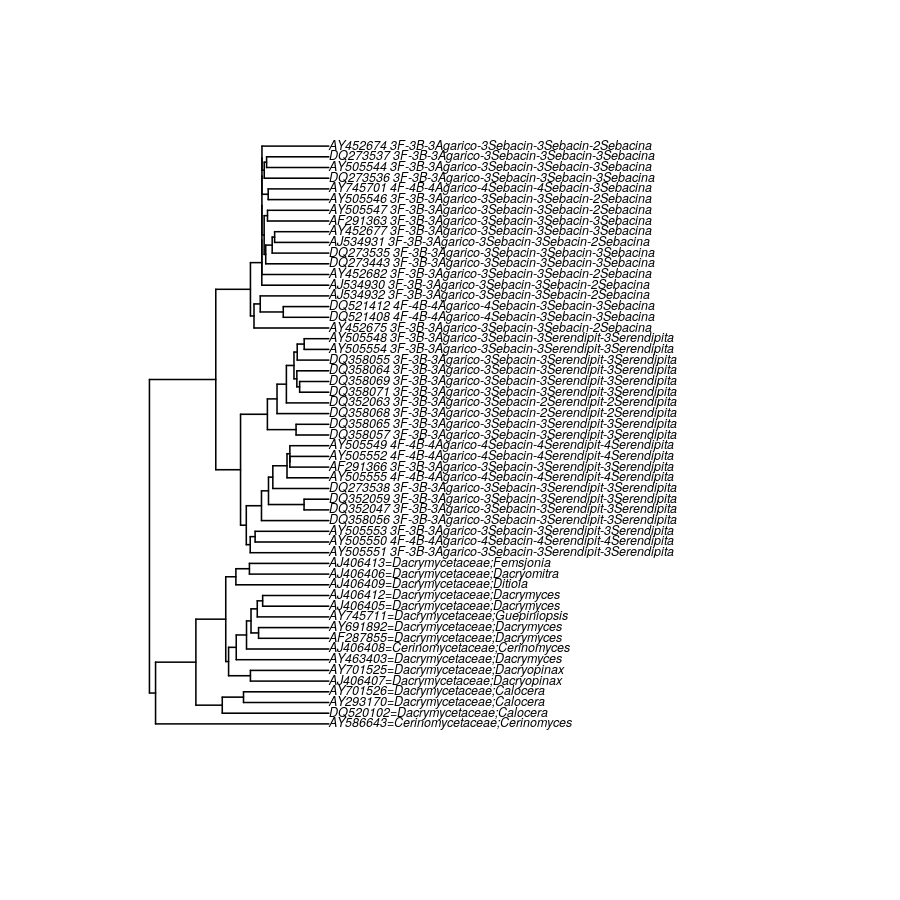
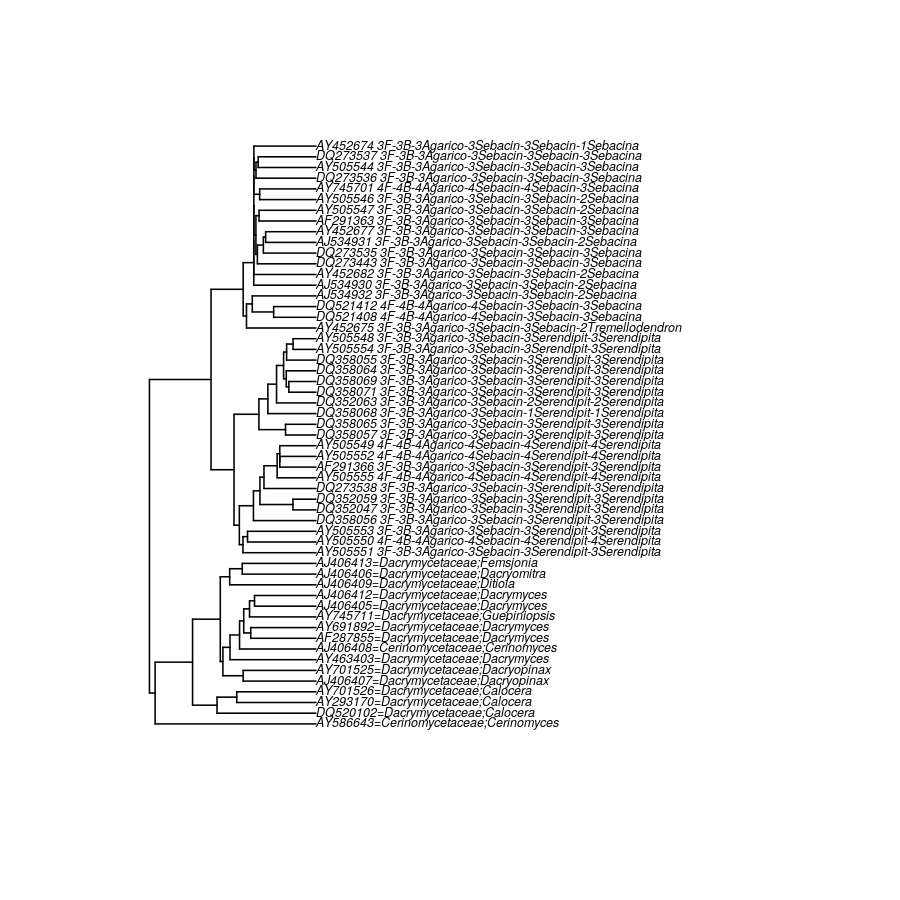
switch to github actions for testing

Changed region(s): [[0.1556, 0.1556, 0.7467, 0.8089]]

diff --git a/README.md b/README.md
@@ -6,8 +6,8 @@ phylotax
 
 <!-- badges: start -->
 
-[![Travis build
-status](https://travis-ci.com/brendanf/phylotax.svg?branch=master)](https://travis-ci.com/brendanf/phylotax)
+[![R build
+status](https://github.com/brendanf/phylotax/workflows/R-CMD-check-bioc/badge.svg)](https://github.com/brendanf/phylotax/actions)
 [![Codecov test
 coverage](https://codecov.io/gh/brendanf/phylotax/branch/master/graph/badge.svg)](https://codecov.io/gh/brendanf/phylotax?branch=master)
 <!-- badges: end -->
@@ -103,8 +103,8 @@ tree supports it.
 
 ``` r
 phylotax_out <- phylotax(tree = example_tree(), taxa = example_taxa())
-#> INFO [2020-10-20 16:04:59] Assigned node 9 (label: 3) and its 2 descendant(s) to genus Tax2.
-#> INFO [2020-10-20 16:04:59] Assigned node 10 (label: 4) and its 3 descendant(s) to genus Tax1.
+#> INFO [2021-03-03 07:03:38] Assigned node 9 (label: 3) and its 2 descendant(s) to genus Tax2.
+#> INFO [2021-03-03 07:03:38] Assigned node 10 (label: 4) and its 3 descendant(s) to genus Tax1.
 ```
 
 PHYLOTAX returns a list of class “`phylotax`” containing the tree, taxa
@@ -258,7 +258,7 @@ aln <- AlignSeqs(c(unknowns, outgroup))
 #> Aligning Sequences:
 #> ================================================================================
 #> 
-#> Time difference of 0.59 secs
+#> Time difference of 0.58 secs
 #> 
 #> Iteration 1 of 2:
 #> 
@@ -275,7 +275,7 @@ aln <- AlignSeqs(c(unknowns, outgroup))
 #> Realigning Sequences:
 #> ================================================================================
 #> 
-#> Time difference of 0.42 secs
+#> Time difference of 0.41 secs
 #> 
 #> Iteration 2 of 2:
 #> 
@@ -297,7 +297,7 @@ aln <- AlignSeqs(c(unknowns, outgroup))
 #> Refining the alignment:
 #> ================================================================================
 #> 
-#> Time difference of 0.1 secs
+#> Time difference of 0.09 secs
 ```
 
 Trim the ends where there are a lot of gaps.
@@ -348,7 +348,7 @@ dendro <- IdClusters(distmat, method = "ML", type = "dendrogram", myXStringSet =
 #> Transversion rates = 1
 #> Alpha = 0.535
 #> 
-#> Time difference of 6.55 secs
+#> Time difference of 6.87 secs
 ```
 
 PHYLOTAX needs the tree to be a `phylo` object from the `ape` package.
@@ -431,7 +431,7 @@ format as SINTAX.
 idtaxa_model <- train_idtaxa(sintax_ref)
 #> ================================================================================
 #> 
-#> Time difference of 0.59 secs
+#> Time difference of 0.6 secs
 ```
 
 Now that the model is trained, we can identify the unknown sequences.
@@ -440,7 +440,7 @@ Now that the model is trained, we can identify the unknown sequences.
 idtaxa_result <- taxonomy(unknowns, reference = idtaxa_model, method = "idtaxa")
 #> ================================================================================
 #> 
-#> Time difference of 0.11 secs
+#> Time difference of 0.12 secs
 ```
 
 IDTAXA gives its result as a list of lists. Here are the first three
@@ -482,7 +482,7 @@ str(sintax_result)
 #> tibble [39 × 5] (S3: tbl_df/tbl/data.frame)
 #>  $ label : chr [1:39] "AF291363" "AJ534930" "AJ534931" "AJ534932" ...
 #>  $ seq   : chr [1:39] "GCGGAGGAAAAGAAACTAACAAGGATTCCCCTAGTAACGGCGAGTGAAGAGGGAATAGCTCAAATTTTGAATCTGGCACCTTTGGTGTCCGAATTGTAATCTAGAGAAGTG"| __truncated__ "AACGGCGAGTGAAGAGGGAAGAGCTCAAATTTTGAATCTGGCGTCTTTGGCGTCCGAATTGTAATCTAGAGAAGTGTTTTCCGTGACGGACCGTGCATAAGTCTCCTGGAA"| __truncated__ "CCCGCTGAACTTAAGCATATCAATAAGCGGAGGAAAAGAAACTAACAAGGATTCCCCTAGTAACGGCGAGTGAAGAGGGAAGAGCTCAAATTTTGAATCTGGCGTCTCTGG"| __truncated__ "GTAACGGCGAGTGAAGAGGGAAGAGCTCAAATTTTGAATCTGGCACCTCTGGTGTCTGAGTTGTAATCTAGAGAAGTGCTTTCTGTGGCGGACCGTGCACAAGTCTCCTGG"| __truncated__ ...
-#>  $ hit   : chr [1:39] "k:Fungi(1.00),p:Basidiomycota(1.00),c:Agaricomycetes(1.00),o:Sebacinales(1.00),f:Sebacinaceae(1.00),g:Sebacina(0.98)" "k:Fungi(1.00),p:Basidiomycota(1.00),c:Agaricomycetes(1.00),o:Sebacinales(1.00),f:Sebacinaceae(1.00),g:Sebacina(0.98)" "k:Fungi(1.00),p:Basidiomycota(1.00),c:Agaricomycetes(1.00),o:Sebacinales(1.00),f:Sebacinaceae(1.00),g:Sebacina(0.88)" "k:Fungi(1.00),p:Basidiomycota(1.00),c:Agaricomycetes(1.00),o:Sebacinales(1.00),f:Sebacinaceae(0.97),g:Sebacina(0.95)" ...
+#>  $ hit   : chr [1:39] "k:Fungi(1.00),p:Basidiomycota(1.00),c:Agaricomycetes(1.00),o:Sebacinales(1.00),f:Sebacinaceae(1.00),g:Sebacina(0.98)" "k:Fungi(1.00),p:Basidiomycota(1.00),c:Agaricomycetes(1.00),o:Sebacinales(1.00),f:Sebacinaceae(1.00),g:Sebacina(0.98)" "k:Fungi(1.00),p:Basidiomycota(1.00),c:Agaricomycetes(1.00),o:Sebacinales(1.00),f:Sebacinaceae(0.99),g:Sebacina(0.86)" "k:Fungi(1.00),p:Basidiomycota(1.00),c:Agaricomycetes(1.00),o:Sebacinales(1.00),f:Sebacinaceae(0.97),g:Sebacina(0.91)" ...
 #>  $ strand: chr [1:39] "+" "+" "+" "+" ...
 #>  $ c12n  : chr [1:39] "k:Fungi,p:Basidiomycota,c:Agaricomycetes,o:Sebacinales,f:Sebacinaceae,g:Sebacina" "k:Fungi,p:Basidiomycota,c:Agaricomycetes,o:Sebacinales,f:Sebacinaceae,g:Sebacina" "k:Fungi,p:Basidiomycota,c:Agaricomycetes,o:Sebacinales,f:Sebacinaceae,g:Sebacina" "k:Fungi,p:Basidiomycota,c:Agaricomycetes,o:Sebacinales,f:Sebacinaceae,g:Sebacina" ...
 ```
@@ -539,7 +539,7 @@ nrow(dada2_taxonomy)
 nrow(idtaxa_taxonomy)
 #> [1] 42
 nrow(sintax_taxonomy)
-#> [1] 234
+#> [1] 230
 ```
 
 Keep in mind that assigning one sequence from kingdom to genus is a
@@ -592,14 +592,16 @@ time for PHYLOTAX.
 
 ``` r
 p <- phylotax(tree = tree, taxa = combined_taxonomy)
-#> INFO [2020-10-20 16:05:15] Assigned node 58 and its 39 descendant(s) to kingdom Fungi.
-#> INFO [2020-10-20 16:05:15] Assigned node 58 and its 39 descendant(s) to phylum Basidiomycota.
-#> INFO [2020-10-20 16:05:15] Assigned node 58 and its 39 descendant(s) to class Agaricomycetes.
-#> INFO [2020-10-20 16:05:15] Assigned node 58 and its 39 descendant(s) to order Sebacinales.
-#> INFO [2020-10-20 16:05:15] Assigned node 62 and its 21 descendant(s) to family Serendipitaceae.
-#> INFO [2020-10-20 16:05:15] Assigned node 62 and its 21 descendant(s) to genus Serendipita.
-#> INFO [2020-10-20 16:05:15] Assigned node 63 and its 18 descendant(s) to family Sebacinaceae.
-#> INFO [2020-10-20 16:05:15] Assigned node 63 and its 18 descendant(s) to genus Sebacina.
+#> INFO [2021-03-03 07:03:54] Assigned node 58 and its 39 descendant(s) to kingdom Fungi.
+#> INFO [2021-03-03 07:03:54] Assigned node 58 and its 39 descendant(s) to phylum Basidiomycota.
+#> INFO [2021-03-03 07:03:54] Assigned node 58 and its 39 descendant(s) to class Agaricomycetes.
+#> INFO [2021-03-03 07:03:54] Assigned node 58 and its 39 descendant(s) to order Sebacinales.
+#> INFO [2021-03-03 07:03:55] Assigned node 62 and its 21 descendant(s) to family Serendipitaceae.
+#> INFO [2021-03-03 07:03:55] Assigned node 62 and its 21 descendant(s) to genus Serendipita.
+#> INFO [2021-03-03 07:03:55] Assigned node 63 and its 18 descendant(s) to family Sebacinaceae.
+#> INFO [2021-03-03 07:03:55] Assigned node 21 and its 1 descendant(s) to genus Tremellodendron.
+#> INFO [2021-03-03 07:03:55] Assigned node 81 and its 3 descendant(s) to genus Sebacina.
+#> INFO [2021-03-03 07:03:55] Assigned node 78 and its 14 descendant(s) to genus Sebacina.
 ```
 
 We can look at the tree again to see how PHYLOTAX has cleaned up the
